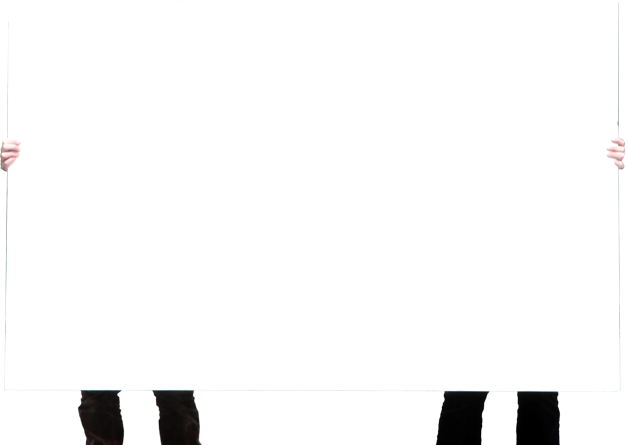
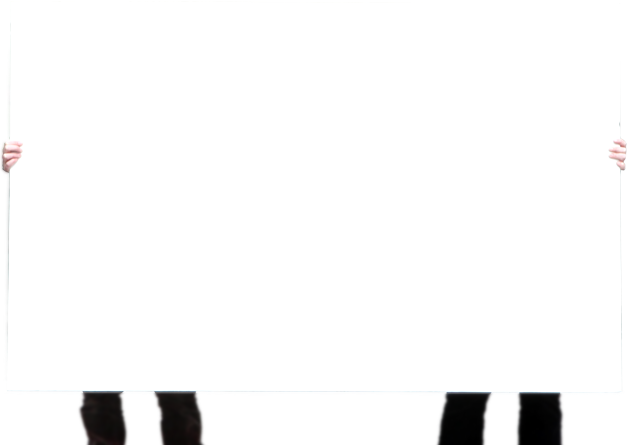
homepage revisions
git-svn-id: http://svn.localprojects.net/gam2@538 befef031-aaeb-48d0-b70f-681328309d3d

diff --git a/trunk/static/css/tc.gam.main.css b/trunk/static/css/tc.gam.main.css
@@ -87,8 +87,8 @@ ul.navbar li.userland div.username div.dropdown { top:20px; left: 9px; }
 ul.navbar li.userland div.username div.dropdown a { text-transform: uppercase; letter-spacing: .25px; }
 ul.navbar li.userland div.myprojects div.dropdown { top:20px; right: 6px; width: auto; background-position: top right;}
 ul.navbar li.userland div.myprojects div.dropdown a { font: 15px/18px "ff-meta-serif-web-pro-1","ff-meta-serif-web-pro-2", Georgia, Times, Times New Roman, serif; letter-spacing: .25px; text-transform: none; min-width: 275px;}
-ul.navbar li.userland div.username a:hover + div.dropdown,
-ul.navbar li.userland div.myprojects a:hover + div.dropdown { display: block; }
+ul.navbar li.userland div.username a:hover + div.dropdown.no-js,
+ul.navbar li.userland div.myprojects a:hover + div.dropdown.no-js { display: block; }
 
 
 body ul.navbar li.userland div.join,
@@ -965,7 +965,7 @@ span.error { display: block; margin-top: 6px; color: #e53224; font-size: 11px; l
 /* Home */
 div.continent.home { margin-top:0; }
 div.continent.home .headlands { border-bottom:1px solid #ebeae8; margin-bottom: 30px; position: relative; }
-div.continent.home span.hey { display: block; position: absolute; left: -21px; top:25px; background: url(../images/button_heyNYC.png) top left no-repeat transparent; height: 62px; width: 133px; z-index: 10000; }
+div.continent.home span.hey { display: block; position: absolute; left: -18px; top:29px; background: url(../images/button_heyNYC.png) top left no-repeat transparent; height: 59px; width: 121px; z-index: 10000; }
 div.continent.home span.hey span { visibility: hidden; }
 div.continent.home .headlands .splash-container { overflow:hidden; height:635px; position:relative;}
 div.continent.home .headlands .splash { height:100%; background-color:transparent; position:relative; width: 2220px;}
@@ -983,8 +983,9 @@ div.continent.home .headlands .splash .top-pane .oops { position:absolute; z-ind
 	
 /* CONSOLE */
 div.continent.home .headlands .splash .top-pane.start div.console { float:left; width: 462px; margin-right: 10px; }
-div.continent.home .headlands .splash .top-pane.start div.console span.console-message { font-size: 45px; line-height: 48px; font-weight: bold; letter-spacing: -0.75px;}
-div.continent.home .headlands .splash .top-pane.start div.console span.console-message span { display: block; float: left; width: 87px; height: 40px; }
+div.continent.home .headlands .splash .top-pane.start div.console span.console-message { 
+	font-size: 32px; line-height: 36px; font-weight: bold; letter-spacing: -0.5px; margin-top: 12px;}
+div.continent.home .headlands .splash .top-pane.start div.console span.console-message span { display: block; float: left; width: 76px; height: 32px; }
 div.continent.home .headlands .splash .top-pane.info div.console { float:none; width: 540px; margin-right: 10px; margin-bottom: 8px; }
 div.continent.home .headlands .splash .top-pane.info div.console span.after-idea-message { display: none; }
 div.continent.home .headlands .splash .top-pane div.console span.console-message { font-size: 38px; line-height: 40px; font-weight:bold; max-width: 550px; margin-bottom:5px; display: block;}
@@ -1031,7 +1032,7 @@ div.continent.home .headlands .splash  .projects-pane h2 .text {
 	background-color: transparent; background: rgb(255, 255, 255); background: rgba(255, 255, 255, 0.7); display: block;
 	}
 div.continent.home .headlands .splash .projects-pane h2 a.ca-btn {float:right; width: 88px; height:50px; background: url(../images/button_seeAllProjects.png) center right no-repeat transparent; position: absolute; right: -8px; top: -3px;}
-div.continent.home .headlands .splash .projects-pane div.project-cards { position: absolute; bottom: 0; width: 628px; height: 440px; background: url(../images/bg_holdingSign.png) top left no-repeat transparent; }
+div.continent.home .headlands .splash .projects-pane div.project-cards { position: absolute; bottom: 0; width: 628px; height: 440px; background: url(../images/bg_holdingSign.png) -2px 0px no-repeat transparent; }
 
 	/* splash project cards inner area */
 div.continent.home div.project-cards h3 { font-weight: normal; font: 17px/20px "ff-meta-serif-web-pro-1","ff-meta-serif-web-pro-2", Georgia, Times, Times New Roman, serif; color: #3d3a36; }

diff --git a/trunk/templates/home.html b/trunk/templates/home.html
@@ -16,7 +16,7 @@ Change by Us - Home
 					<div class='top-pane start'>
 						
 						<div class="console">
-							<span class="start console-message"><span></span>How can we green our neighborhoods?</span>
+							<span class="start console-message"><span></span>How can we make our city a greener, better place to live?</span>
 							<span class="more-info after-idea-message" style='display:none;'>Thanks for your idea<br /><span class="sm">We just need a little more information</span></span>
 							<span class="thanks after-idea-message" style='display:none;'>Thanks for your idea<br /><span class="sm">Please wait while we process your idea!</span></span>
 						</div>
@@ -93,7 +93,9 @@ Change by Us - Home
 									</div>
 									<div class="bd">
 										{% for idea in d.template_data.all_ideas.data[0].ideas %}
+											{% if loop.index < 45 %}
 											<div class="small-note"><a href='/project/{{ d.template_data.all_ideas.data[0].project_id }}'><span>{% if idea.f_name %}<cite class="note-meta-hd"><strong>{{ idea.f_name ~ " " ~ idea.l_name }}</strong> says &mdash;</cite>{% endif %}<blockquote><p>{{ idea.text|truncate(180) }}</p></blockquote></span></a></div>
+											{% endif %}
 										{% endfor %}
 									</div>
 								</div>
@@ -107,7 +109,9 @@ Change by Us - Home
 									</div>
 									<div class="bd">
 										{% for idea in d.template_data.all_ideas.data[1].ideas %}
+											{% if loop.index < 20 %}
 											<div class="small-note"><a href='/project/{{ d.template_data.all_ideas.data[1].project_id }}'><span>{% if idea.f_name %}<cite class="note-meta-hd"><strong>{{ idea.f_name ~ " " ~ idea.l_name }}</strong> says &mdash;</cite>{% endif %}<blockquote><p>{{ idea.text|truncate(180) }}</p></blockquote></span></a></div>
+											{% endif %}
 										{% endfor %}
 									</div>
 								</div>
@@ -117,7 +121,9 @@ Change by Us - Home
 									</div>
 									<div class="bd">
 										{% for idea in d.template_data.all_ideas.data[2].ideas %}
+											{% if loop.index < 20 %}
 											<div class="small-note"><a href='/project/{{ d.template_data.all_ideas.data[2].project_id }}'><span>{% if idea.f_name %}<cite class="note-meta-hd"><strong>{{ idea.f_name ~ " " ~ idea.l_name }}</strong> says &mdash;</cite>{% endif %}<blockquote><p>{{ idea.text|truncate(180) }}</p></blockquote></span></a></div>
+											{% endif %}
 										{% endfor %}
 									</div>
 								</div>
@@ -127,7 +133,9 @@ Change by Us - Home
 									</div>
 									<div class="bd">
 										{% for idea in d.template_data.all_ideas.data[3].ideas %}
+											{% if loop.index < 25 %}
 											<div class="small-note"><a href='/project/{{ d.template_data.all_ideas.data[3].project_id }}'><span>{% if idea.f_name %}<cite class="note-meta-hd"><strong>{{ idea.f_name ~ " " ~ idea.l_name }}</strong> says &mdash;</cite>{% endif %}<blockquote><p>{{ idea.text|truncate(180) }}</p></blockquote></span></a></div>
+											{% endif %}
 										{% endfor %}
 									</div>
 								</div>
@@ -137,7 +145,9 @@ Change by Us - Home
 									</div>
 									<div class="bd">
 										{% for idea in d.template_data.all_ideas.data[4].ideas %}
+											{% if loop.index < 15 %}
 											<div class="small-note"><a href='/project/{{ d.template_data.all_ideas.data[4].project_id }}'><span>{% if idea.f_name %}<cite class="note-meta-hd"><strong>{{ idea.f_name ~ " " ~ idea.l_name }}</strong> says &mdash;</cite>{% endif %}<blockquote><p>{{ idea.text|truncate(180) }}</p></blockquote></span></a></div>
+											{% endif %}
 										{% endfor %}
 									</div>
 								</div>
@@ -654,7 +664,7 @@ Change by Us - Home
 		function arrangeNotes(areaNum) {
 			//settings
 			var gridDistance = 46; // in pixels
-			var maxOffset = 15; // in pixels
+			var maxOffset = 14; // in pixels
 			
 			// selectors
 			var areaSelector = ".area"+areaNum;

diff --git a/trunk/templates/partials/base.html b/trunk/templates/partials/base.html
@@ -90,7 +90,7 @@
 							<div class='messages has-messages'><a href='/useraccount#messages'><span class="indicator"><span class="num">2</span></span></a></div>
 							<div class='username'>
 								<a href='/useraccount'><span class="unbold">Hi, </span>{% if d.template_data and d.template_data.user %}{{ d.template_data['user'].data.f_name }}{% endif %}!</a>
-								<div class="dropdown">
+								<div class="dropdown no-js">
 									<div class="membrane">
 										<a href="/useraccount">Account</a>
 										<a href="#logout">Log out</a>
@@ -99,7 +99,7 @@
 							</div>
 							<div class='myprojects'>
 								<a href='/useraccount'><span class="unbold">My </span>Projects</a>
-								<div class="dropdown">
+								<div class="dropdown no-js">
 									<div class="membrane">
 										{% if d.template_data and d.template_data.user %}
 											{% if d.template_data.user.data.projects|length > 0 %}

diff --git a/trunk/static/js/tc.gam.topbar.js b/trunk/static/js/tc.gam.topbar.js
@@ -7,7 +7,9 @@ tc.top_bar = function(element, options) {
 		slideSpeed: 250,
 		fadeSpeed: 200
 	}, options);
-		
+	
+	tc.jQ('div.dropdown').removeClass('no-js');
+	
 	function init() {
 		element.find(".username, .myprojects").mouseenter(function () {
 			tc.jQ(this).children(".dropdown").stop(true, true).slideDown(o.slideSpeed);
